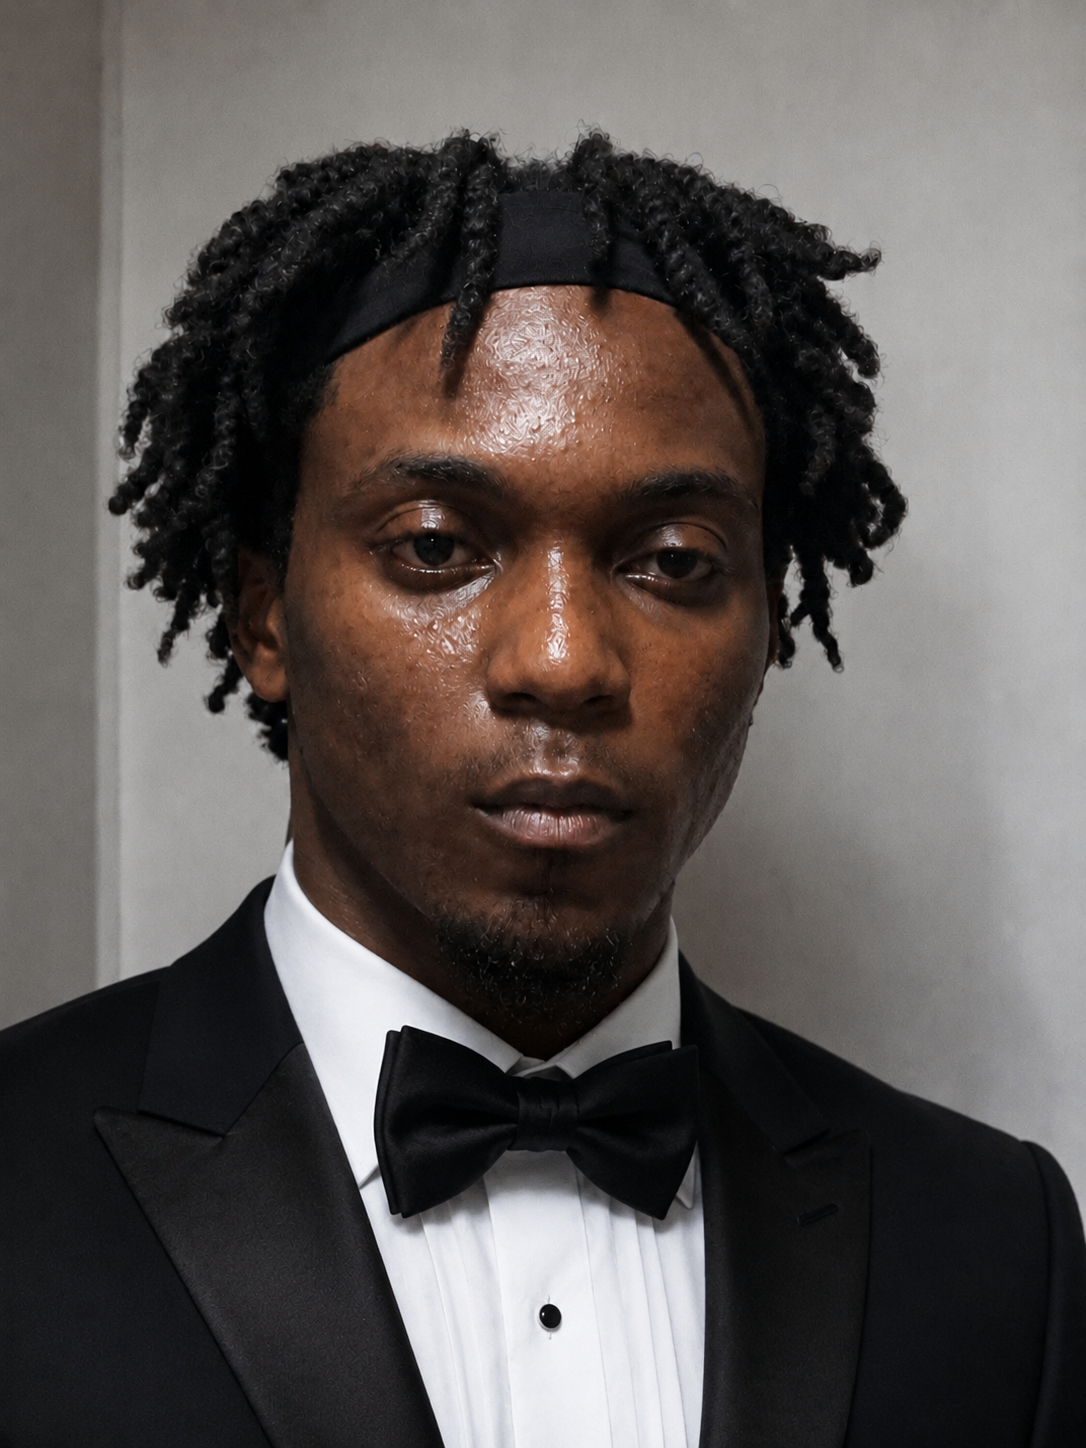
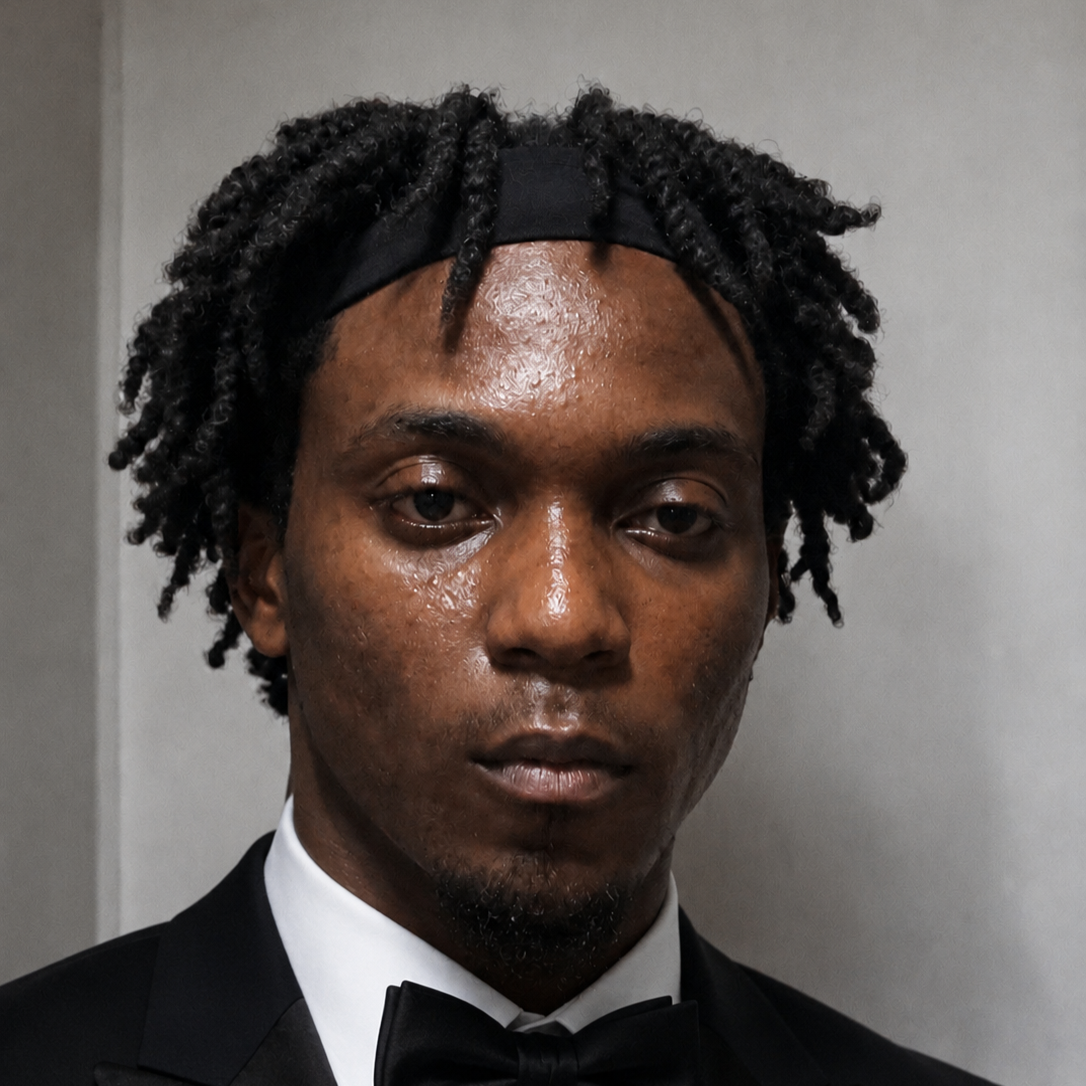
Création des cartes des développeurs et des projets en js, et injection dans le DOM

diff --git a/src/js/index.js b/src/js/index.js
@@ -1,0 +1,108 @@
+/*========================================================
+    CREATION ET INJECTION DES CARTES A PARTIR DES DEUX BD
+==========================================================*/
+
+// On charge les fichiers JSON
+import donneesDeveloppeurs from "../data/developers.json";
+import donneesProjets from "../data/projects.json";
+
+async function chargerLesDonnees() {
+  // On extrait les tableaux depuis les objets racines
+  const listeDeveloppeurs = donneesDeveloppeurs.developers;
+  const listeProjets = donneesProjets.projects;
+
+  return { listeDeveloppeurs, listeProjets };
+}
+
+/*-------------------------------------
+    Construire une carte développeur
+---------------------------------------*/
+
+function construireCarteDeveloppeur(developpeur) {
+  // On prépare la liste des technologies sous forme de badges
+  const badgesTechnologies = developpeur.stack.languages.slice(0, 6)
+    .map((technologie) => `<span class="badge">${technologie}</span>`)
+    .join("");
+  const badgesTools = developpeur.stack.tools.slice(0, 6)
+    .map((devtools) => `<span class="badge">${devtools}</span>`)
+    .join("");
+
+
+  // On construit et retourne le HTML complet de la carte
+  return `
+    <article class="dev-card">
+      <a href="${developpeur.socials.portfolio}">
+        <div class="banner-card">
+          <img class="avatar"
+          src="${developpeur.avatar}"
+          alt="Photo de ${developpeur.firstName} ${developpeur.lastName}"
+          />
+        </div>
+        <h3>${developpeur.firstName} ${developpeur.lastName}</h3>
+        <p class="role">${developpeur.role}</p>
+        <p class="role">${developpeur.location}</p>
+        <div class="badges">${badgesTechnologies}${badgesTools}</div>
+      </a>
+    </article>
+  `;
+}
+
+/*-------------------------------------
+    Construire une carte projet
+---------------------------------------*/
+
+function construireCarteProjet(projet) {
+  // On fusionne toutes les technologies en un seul tableau
+  const toutesLesTechnologies = [
+    ...projet.stack.frontend,
+    ...projet.stack.backend,
+  ].slice(0, 6);
+
+  // On transforme chaque technologie en badge HTML
+  const badgesTechnologies = toutesLesTechnologies
+    .map((technologie) => `<span class="badge">${technologie}</span>`)
+    .join("");
+
+  // Le lien vers la page détail passe l'ID du projet dans l'URL
+  const lienVersLaPageDetail = `projet.html?id=${projet.id}`;
+
+  return `
+    <article class="carte-projet">
+      <a href="${lienVersLaPageDetail}">
+        <div>
+          <img src="${projet.thumbnail}" alt="${projet.name}" />
+          <div>
+            <h3>${projet.name}</h3>
+            <p>${projet.tagline}</p>
+          </div>
+        </div>
+        <div class="badges">${badgesTechnologies}</div>
+      </a>
+    </article>
+  `;
+}
+
+// Injecter les cartes dans la page
+
+export async function afficherLesCartes() {
+  // On récupère les données depuis les fichiers JSON
+  const { listeDeveloppeurs, listeProjets } = await chargerLesDonnees();
+
+  // On transforme chaque développeur en carte HTML, puis on assemble
+  const htmlCarteDeveloppeurs = listeDeveloppeurs
+    .map((developpeur) => construireCarteDeveloppeur(developpeur))
+    .join("");
+
+  // On transforme chaque projet en carte HTML, puis on assemble
+  const htmlCartesProjets = listeProjets
+    .map((projet) => construireCarteProjet(projet))
+    .join("");
+
+  // On sélectionne les conteneurs dans la page HTML
+  const conteneurDeveloppeurs = document.querySelector("#dev-grid");
+  const conteneurProjets = document.querySelector("#project-grid");
+
+  // On injecte le HTML dans chaque conteneur
+  conteneurDeveloppeurs.innerHTML = htmlCarteDeveloppeurs;
+  conteneurProjets.innerHTML = htmlCartesProjets;
+}

diff --git a/src/main.js b/src/main.js
@@ -1,4 +1,5 @@
 import "./style.css";
+import { afficherLesCartes } from "./js/index.js";
 
 document.querySelector("#app").innerHTML = `
   <header>
@@ -64,3 +65,6 @@ document.querySelector("#app").innerHTML = `
     </span>
   </footer>
 `;
+
+// On déclenche tout au chargement de la page
+afficherLesCartes();
